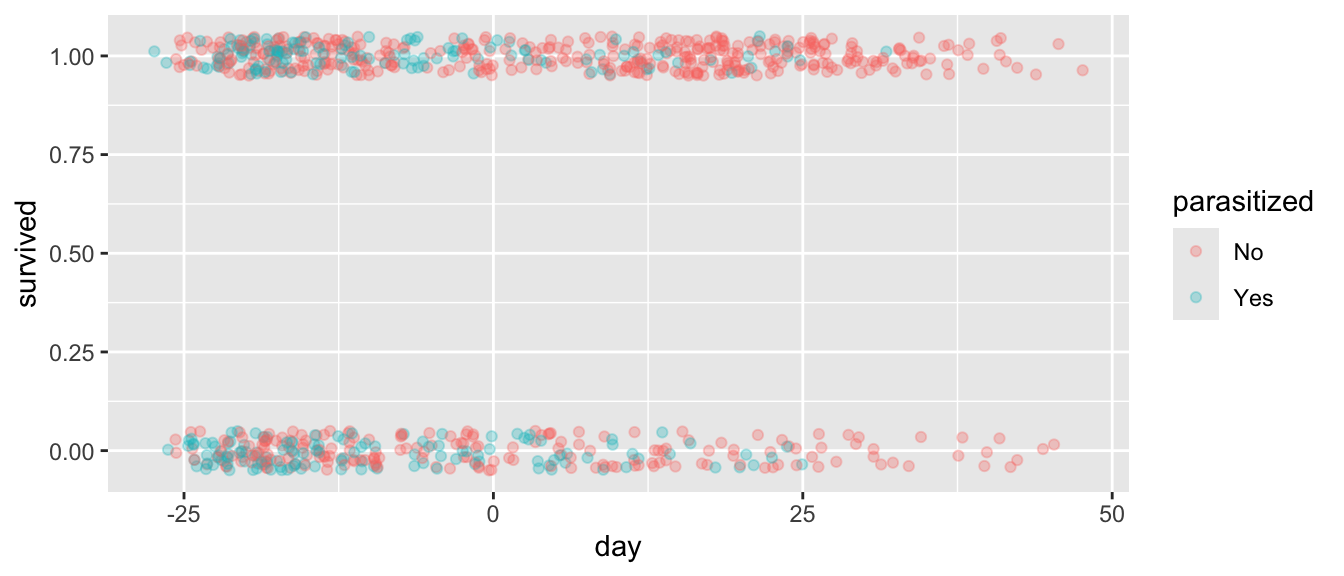
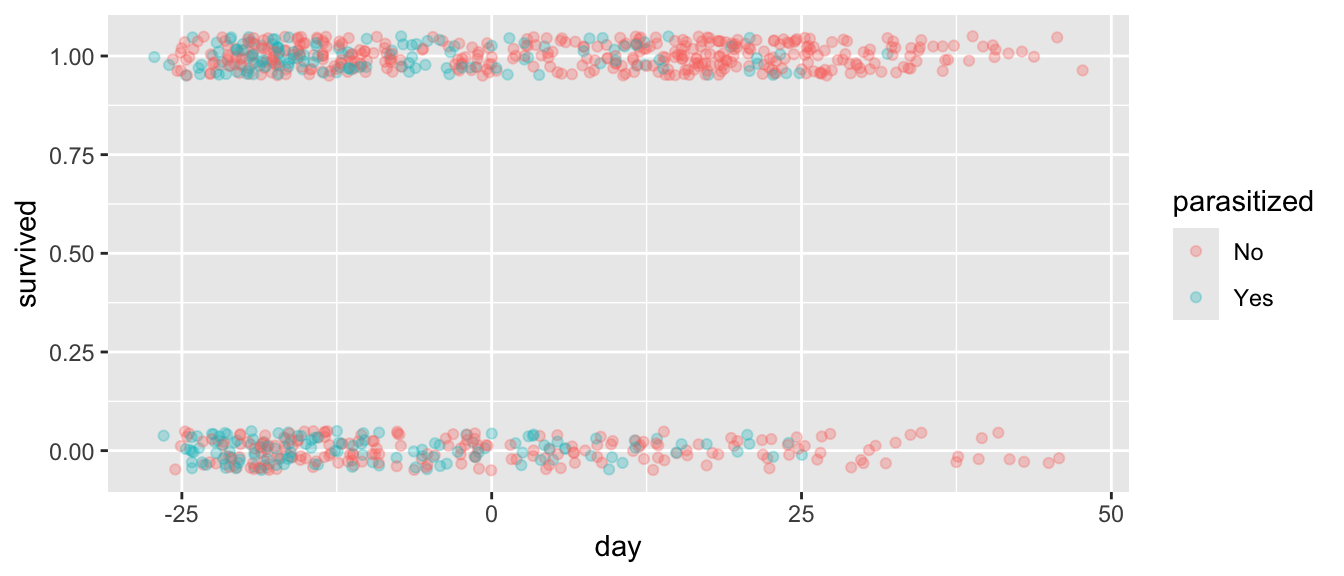
commit

diff --git a/docs/exercise-12-solution.html b/docs/exercise-12-solution.html
@@ -919,7 +919,7 @@ pre > code.sourceCode > span > a:first-child::before { text-decoration: underlin
 <li>Given the nature of the data and the response variable, what kind of model would this be?</li>
 </ul>
 <div class="cell" data-layout-align="center">
-<div class="sourceCode cell-code" id="cb28"><pre class="sourceCode r code-with-copy"><code class="sourceCode r"><span id="cb28-1"><a href="#cb28-1" aria-hidden="true" tabindex="-1"></a><span class="co"># **Logistic GLMM**</span></span>
+<div class="sourceCode cell-code" id="cb28"><pre class="sourceCode r code-with-copy"><code class="sourceCode r"><span id="cb28-1"><a href="#cb28-1" aria-hidden="true" tabindex="-1"></a><span class="co"># Logistic GLMM</span></span>
 <span id="cb28-2"><a href="#cb28-2" aria-hidden="true" tabindex="-1"></a>m <span class="ot">&lt;-</span> <span class="fu">glmer</span>(</span>
 <span id="cb28-3"><a href="#cb28-3" aria-hidden="true" tabindex="-1"></a>  parasitized <span class="sc">~</span></span>
 <span id="cb28-4"><a href="#cb28-4" aria-hidden="true" tabindex="-1"></a>    day <span class="sc">+</span></span>
@@ -994,7 +994,7 @@ pre > code.sourceCode > span > a:first-child::before { text-decoration: underlin
 <li>Given the nature of the data and the response variable, what kind of model would this be?</li>
 </ul>
 <div class="cell" data-layout-align="center">
-<div class="sourceCode cell-code" id="cb33"><pre class="sourceCode r code-with-copy"><code class="sourceCode r"><span id="cb33-1"><a href="#cb33-1" aria-hidden="true" tabindex="-1"></a><span class="co"># **Poisson GLMM**</span></span>
+<div class="sourceCode cell-code" id="cb33"><pre class="sourceCode r code-with-copy"><code class="sourceCode r"><span id="cb33-1"><a href="#cb33-1" aria-hidden="true" tabindex="-1"></a><span class="co"># Poisson GLMM</span></span>
 <span id="cb33-2"><a href="#cb33-2" aria-hidden="true" tabindex="-1"></a>m <span class="ot">&lt;-</span> <span class="fu">glmer</span>(</span>
 <span id="cb33-3"><a href="#cb33-3" aria-hidden="true" tabindex="-1"></a>  NeHW <span class="sc">~</span></span>
 <span id="cb33-4"><a href="#cb33-4" aria-hidden="true" tabindex="-1"></a>    NeCB <span class="sc">+</span></span>
@@ -1168,7 +1168,7 @@ pre > code.sourceCode > span > a:first-child::before { text-decoration: underlin
 <li>Given the nature of the data and the response variable, what kind of model would this be?</li>
 </ul>
 <div class="cell" data-layout-align="center">
-<div class="sourceCode cell-code" id="cb51"><pre class="sourceCode r code-with-copy"><code class="sourceCode r"><span id="cb51-1"><a href="#cb51-1" aria-hidden="true" tabindex="-1"></a><span class="co"># **Logistic GLMM**</span></span>
+<div class="sourceCode cell-code" id="cb51"><pre class="sourceCode r code-with-copy"><code class="sourceCode r"><span id="cb51-1"><a href="#cb51-1" aria-hidden="true" tabindex="-1"></a><span class="co"># Logistic GLMM</span></span>
 <span id="cb51-2"><a href="#cb51-2" aria-hidden="true" tabindex="-1"></a>m <span class="ot">&lt;-</span> <span class="fu">glmer</span>(</span>
 <span id="cb51-3"><a href="#cb51-3" aria-hidden="true" tabindex="-1"></a>  Aban <span class="sc">~</span></span>
 <span id="cb51-4"><a href="#cb51-4" aria-hidden="true" tabindex="-1"></a>    parasitized <span class="sc">+</span></span>
@@ -1374,7 +1374,7 @@ pre > code.sourceCode > span > a:first-child::before { text-decoration: underlin
 <li>Given the nature of the data and the response variable, what kind of model would this be?</li>
 </ul>
 <div class="cell" data-layout-align="center">
-<div class="sourceCode cell-code" id="cb65"><pre class="sourceCode r code-with-copy"><code class="sourceCode r"><span id="cb65-1"><a href="#cb65-1" aria-hidden="true" tabindex="-1"></a><span class="co"># **Logistic GLMM**</span></span>
+<div class="sourceCode cell-code" id="cb65"><pre class="sourceCode r code-with-copy"><code class="sourceCode r"><span id="cb65-1"><a href="#cb65-1" aria-hidden="true" tabindex="-1"></a><span class="co"># Logistic GLMM</span></span>
 <span id="cb65-2"><a href="#cb65-2" aria-hidden="true" tabindex="-1"></a>m <span class="ot">&lt;-</span> <span class="fu">glmer</span>(</span>
 <span id="cb65-3"><a href="#cb65-3" aria-hidden="true" tabindex="-1"></a>  survived <span class="sc">~</span></span>
 <span id="cb65-4"><a href="#cb65-4" aria-hidden="true" tabindex="-1"></a>    parasitized <span class="sc">+</span></span>
@@ -1536,7 +1536,7 @@ pre > code.sourceCode > span > a:first-child::before { text-decoration: underlin
 <li>Given the nature of the data and the response variable, what kind of model would this be?</li>
 </ul>
 <div class="cell" data-layout-align="center">
-<div class="sourceCode cell-code" id="cb82"><pre class="sourceCode r code-with-copy"><code class="sourceCode r"><span id="cb82-1"><a href="#cb82-1" aria-hidden="true" tabindex="-1"></a><span class="co"># **Logistic GLM**</span></span>
+<div class="sourceCode cell-code" id="cb82"><pre class="sourceCode r code-with-copy"><code class="sourceCode r"><span id="cb82-1"><a href="#cb82-1" aria-hidden="true" tabindex="-1"></a><span class="co"># Logistic GLM</span></span>
 <span id="cb82-2"><a href="#cb82-2" aria-hidden="true" tabindex="-1"></a><span class="co"># note that *survived* should be numeric (0/1) for binomial GLM, not a factor, so we convert it</span></span>
 <span id="cb82-3"><a href="#cb82-3" aria-hidden="true" tabindex="-1"></a>d_model <span class="ot">&lt;-</span> d_model <span class="sc">|&gt;</span></span>
 <span id="cb82-4"><a href="#cb82-4" aria-hidden="true" tabindex="-1"></a>  <span class="fu">mutate</span>(<span class="at">survived =</span> <span class="fu">as.numeric</span>(<span class="fu">as.character</span>(survived)))</span>
@@ -2555,7 +2555,7 @@ window.document.addEventListener("DOMContentLoaded", function (event) {
 <span id="cb107-222"><a href="#cb107-222" aria-hidden="true" tabindex="-1"></a><span class="ss">- </span>Given the nature of the data and the response variable, what kind of model would this be?</span>
 <span id="cb107-223"><a href="#cb107-223" aria-hidden="true" tabindex="-1"></a></span>
 <span id="cb107-226"><a href="#cb107-226" aria-hidden="true" tabindex="-1"></a><span class="in">```{r}</span></span>
-<span id="cb107-227"><a href="#cb107-227" aria-hidden="true" tabindex="-1"></a><span class="co"># **Logistic GLMM**</span></span>
+<span id="cb107-227"><a href="#cb107-227" aria-hidden="true" tabindex="-1"></a><span class="co"># Logistic GLMM</span></span>
 <span id="cb107-228"><a href="#cb107-228" aria-hidden="true" tabindex="-1"></a>m <span class="ot">&lt;-</span> <span class="fu">glmer</span>(parasitized <span class="sc">~</span></span>
 <span id="cb107-229"><a href="#cb107-229" aria-hidden="true" tabindex="-1"></a>             day <span class="sc">+</span></span>
 <span id="cb107-230"><a href="#cb107-230" aria-hidden="true" tabindex="-1"></a>             (<span class="dv">1</span> <span class="sc">|</span> year) <span class="sc">+</span></span>
@@ -2584,7 +2584,7 @@ window.document.addEventListener("DOMContentLoaded", function (event) {
 <span id="cb107-257"><a href="#cb107-257" aria-hidden="true" tabindex="-1"></a><span class="ss">- </span>Given the nature of the data and the response variable, what kind of model would this be?</span>
 <span id="cb107-258"><a href="#cb107-258" aria-hidden="true" tabindex="-1"></a></span>
 <span id="cb107-261"><a href="#cb107-261" aria-hidden="true" tabindex="-1"></a><span class="in">```{r}</span></span>
-<span id="cb107-262"><a href="#cb107-262" aria-hidden="true" tabindex="-1"></a><span class="co"># **Poisson GLMM**</span></span>
+<span id="cb107-262"><a href="#cb107-262" aria-hidden="true" tabindex="-1"></a><span class="co"># Poisson GLMM</span></span>
 <span id="cb107-263"><a href="#cb107-263" aria-hidden="true" tabindex="-1"></a>m <span class="ot">&lt;-</span> <span class="fu">glmer</span>(NeHW <span class="sc">~</span></span>
 <span id="cb107-264"><a href="#cb107-264" aria-hidden="true" tabindex="-1"></a>             NeCB <span class="sc">+</span></span>
 <span id="cb107-265"><a href="#cb107-265" aria-hidden="true" tabindex="-1"></a>             day <span class="sc">+</span></span>
@@ -2663,7 +2663,7 @@ window.document.addEventListener("DOMContentLoaded", function (event) {
 <span id="cb107-348"><a href="#cb107-348" aria-hidden="true" tabindex="-1"></a><span class="ss">- </span>Given the nature of the data and the response variable, what kind of model would this be?</span>
 <span id="cb107-349"><a href="#cb107-349" aria-hidden="true" tabindex="-1"></a></span>
 <span id="cb107-352"><a href="#cb107-352" aria-hidden="true" tabindex="-1"></a><span class="in">```{r}</span></span>
-<span id="cb107-353"><a href="#cb107-353" aria-hidden="true" tabindex="-1"></a><span class="co"># **Logistic GLMM**</span></span>
+<span id="cb107-353"><a href="#cb107-353" aria-hidden="true" tabindex="-1"></a><span class="co"># Logistic GLMM</span></span>
 <span id="cb107-354"><a href="#cb107-354" aria-hidden="true" tabindex="-1"></a>m <span class="ot">&lt;-</span> <span class="fu">glmer</span>(Aban <span class="sc">~</span></span>
 <span id="cb107-355"><a href="#cb107-355" aria-hidden="true" tabindex="-1"></a>             parasitized <span class="sc">+</span></span>
 <span id="cb107-356"><a href="#cb107-356" aria-hidden="true" tabindex="-1"></a>             day <span class="sc">+</span></span>
@@ -2788,7 +2788,7 @@ window.document.addEventListener("DOMContentLoaded", function (event) {
 <span id="cb107-487"><a href="#cb107-487" aria-hidden="true" tabindex="-1"></a><span class="ss">- </span>Given the nature of the data and the response variable, what kind of model would this be?</span>
 <span id="cb107-488"><a href="#cb107-488" aria-hidden="true" tabindex="-1"></a></span>
 <span id="cb107-491"><a href="#cb107-491" aria-hidden="true" tabindex="-1"></a><span class="in">```{r}</span></span>
-<span id="cb107-492"><a href="#cb107-492" aria-hidden="true" tabindex="-1"></a><span class="co"># **Logistic GLMM**</span></span>
+<span id="cb107-492"><a href="#cb107-492" aria-hidden="true" tabindex="-1"></a><span class="co"># Logistic GLMM</span></span>
 <span id="cb107-493"><a href="#cb107-493" aria-hidden="true" tabindex="-1"></a>m <span class="ot">&lt;-</span> <span class="fu">glmer</span>(survived <span class="sc">~</span></span>
 <span id="cb107-494"><a href="#cb107-494" aria-hidden="true" tabindex="-1"></a>              parasitized <span class="sc">+</span></span>
 <span id="cb107-495"><a href="#cb107-495" aria-hidden="true" tabindex="-1"></a>              day <span class="sc">+</span></span>
@@ -2899,7 +2899,7 @@ window.document.addEventListener("DOMContentLoaded", function (event) {
 <span id="cb107-612"><a href="#cb107-612" aria-hidden="true" tabindex="-1"></a><span class="ss">- </span>Given the nature of the data and the response variable, what kind of model would this be?</span>
 <span id="cb107-613"><a href="#cb107-613" aria-hidden="true" tabindex="-1"></a></span>
 <span id="cb107-616"><a href="#cb107-616" aria-hidden="true" tabindex="-1"></a><span class="in">```{r}</span></span>
-<span id="cb107-617"><a href="#cb107-617" aria-hidden="true" tabindex="-1"></a><span class="co"># **Logistic GLM**</span></span>
+<span id="cb107-617"><a href="#cb107-617" aria-hidden="true" tabindex="-1"></a><span class="co"># Logistic GLM</span></span>
 <span id="cb107-618"><a href="#cb107-618" aria-hidden="true" tabindex="-1"></a><span class="co"># note that *survived* should be numeric (0/1) for binomial GLM, not a factor, so we convert it</span></span>
 <span id="cb107-619"><a href="#cb107-619" aria-hidden="true" tabindex="-1"></a>d_model <span class="ot">&lt;-</span> d_model <span class="sc">|&gt;</span></span>
 <span id="cb107-620"><a href="#cb107-620" aria-hidden="true" tabindex="-1"></a>  <span class="fu">mutate</span>(<span class="at">survived =</span> <span class="fu">as.numeric</span>(<span class="fu">as.character</span>(survived)))</span>

diff --git a/docs/exercise-12.html b/docs/exercise-12.html
@@ -806,7 +806,7 @@ pre > code.sourceCode > span > a:first-child::before { text-decoration: underlin
 <h3 class="unnumbered anchored" data-anchor-id="parasitism-and-nest-survival">Parasitism and Nest Survival</h3>
 <p>Run models to examine the <strong>probability of nests surviving to hatching in relation to cowbird parasitism</strong>. Again, use the dichotomous variable <strong>parasitized</strong> as your fixed factor for cowbird parasitism and include date of nest initiation as an additional fixed effect and <strong>year</strong> and <strong>ID</strong> as random effects. This time, create two models, one excluding and one including an interaction term among the fixed effects.</p>
 <blockquote class="blockquote">
-<p>** NOTE:** For this analysis, the authors report using a subset of their data limited to 356 nests that were found before the onset of incubation and that were not abandoned. From what I can deduce, they must have run the following to get this subset of data:</p>
+<p><strong>NOTE:</strong> For this analysis, the authors report using a subset of their data limited to 356 nests that were found before the onset of incubation and that were not abandoned. From what I can deduce, they must have run the following to get this subset of data:</p>
 </blockquote>
 <div class="cell" data-layout-align="center">
 <div class="sourceCode cell-code" id="cb1"><pre class="sourceCode r code-with-copy"><code class="sourceCode r"><span id="cb1-1"><a href="#cb1-1" aria-hidden="true" tabindex="-1"></a>d_model <span class="ot">&lt;-</span> d <span class="sc">|&gt;</span></span>
@@ -1496,7 +1496,7 @@ window.document.addEventListener("DOMContentLoaded", function (event) {
 <span id="cb3-148"><a href="#cb3-148" aria-hidden="true" tabindex="-1"></a></span>
 <span id="cb3-149"><a href="#cb3-149" aria-hidden="true" tabindex="-1"></a>Run models to examine the **probability of nests surviving to hatching in relation to cowbird parasitism**. Again, use the dichotomous variable **parasitized** as your fixed factor for cowbird parasitism and include date of nest initiation as an additional fixed effect and **year** and **ID** as random effects. This time, create two models, one excluding and one including an interaction term among the fixed effects.</span>
 <span id="cb3-150"><a href="#cb3-150" aria-hidden="true" tabindex="-1"></a></span>
-<span id="cb3-151"><a href="#cb3-151" aria-hidden="true" tabindex="-1"></a><span class="at">&gt; ** NOTE:** For this analysis, the authors report using a subset of their data limited to 356 nests that were found before the onset of incubation and that were not abandoned. From what I can deduce, they must have run the following to get this subset of data:</span></span>
+<span id="cb3-151"><a href="#cb3-151" aria-hidden="true" tabindex="-1"></a><span class="at">&gt; **NOTE:** For this analysis, the authors report using a subset of their data limited to 356 nests that were found before the onset of incubation and that were not abandoned. From what I can deduce, they must have run the following to get this subset of data:</span></span>
 <span id="cb3-152"><a href="#cb3-152" aria-hidden="true" tabindex="-1"></a></span>
 <span id="cb3-155"><a href="#cb3-155" aria-hidden="true" tabindex="-1"></a><span class="in">```{r}</span></span>
 <span id="cb3-156"><a href="#cb3-156" aria-hidden="true" tabindex="-1"></a><span class="co">#| eval: false</span></span>
